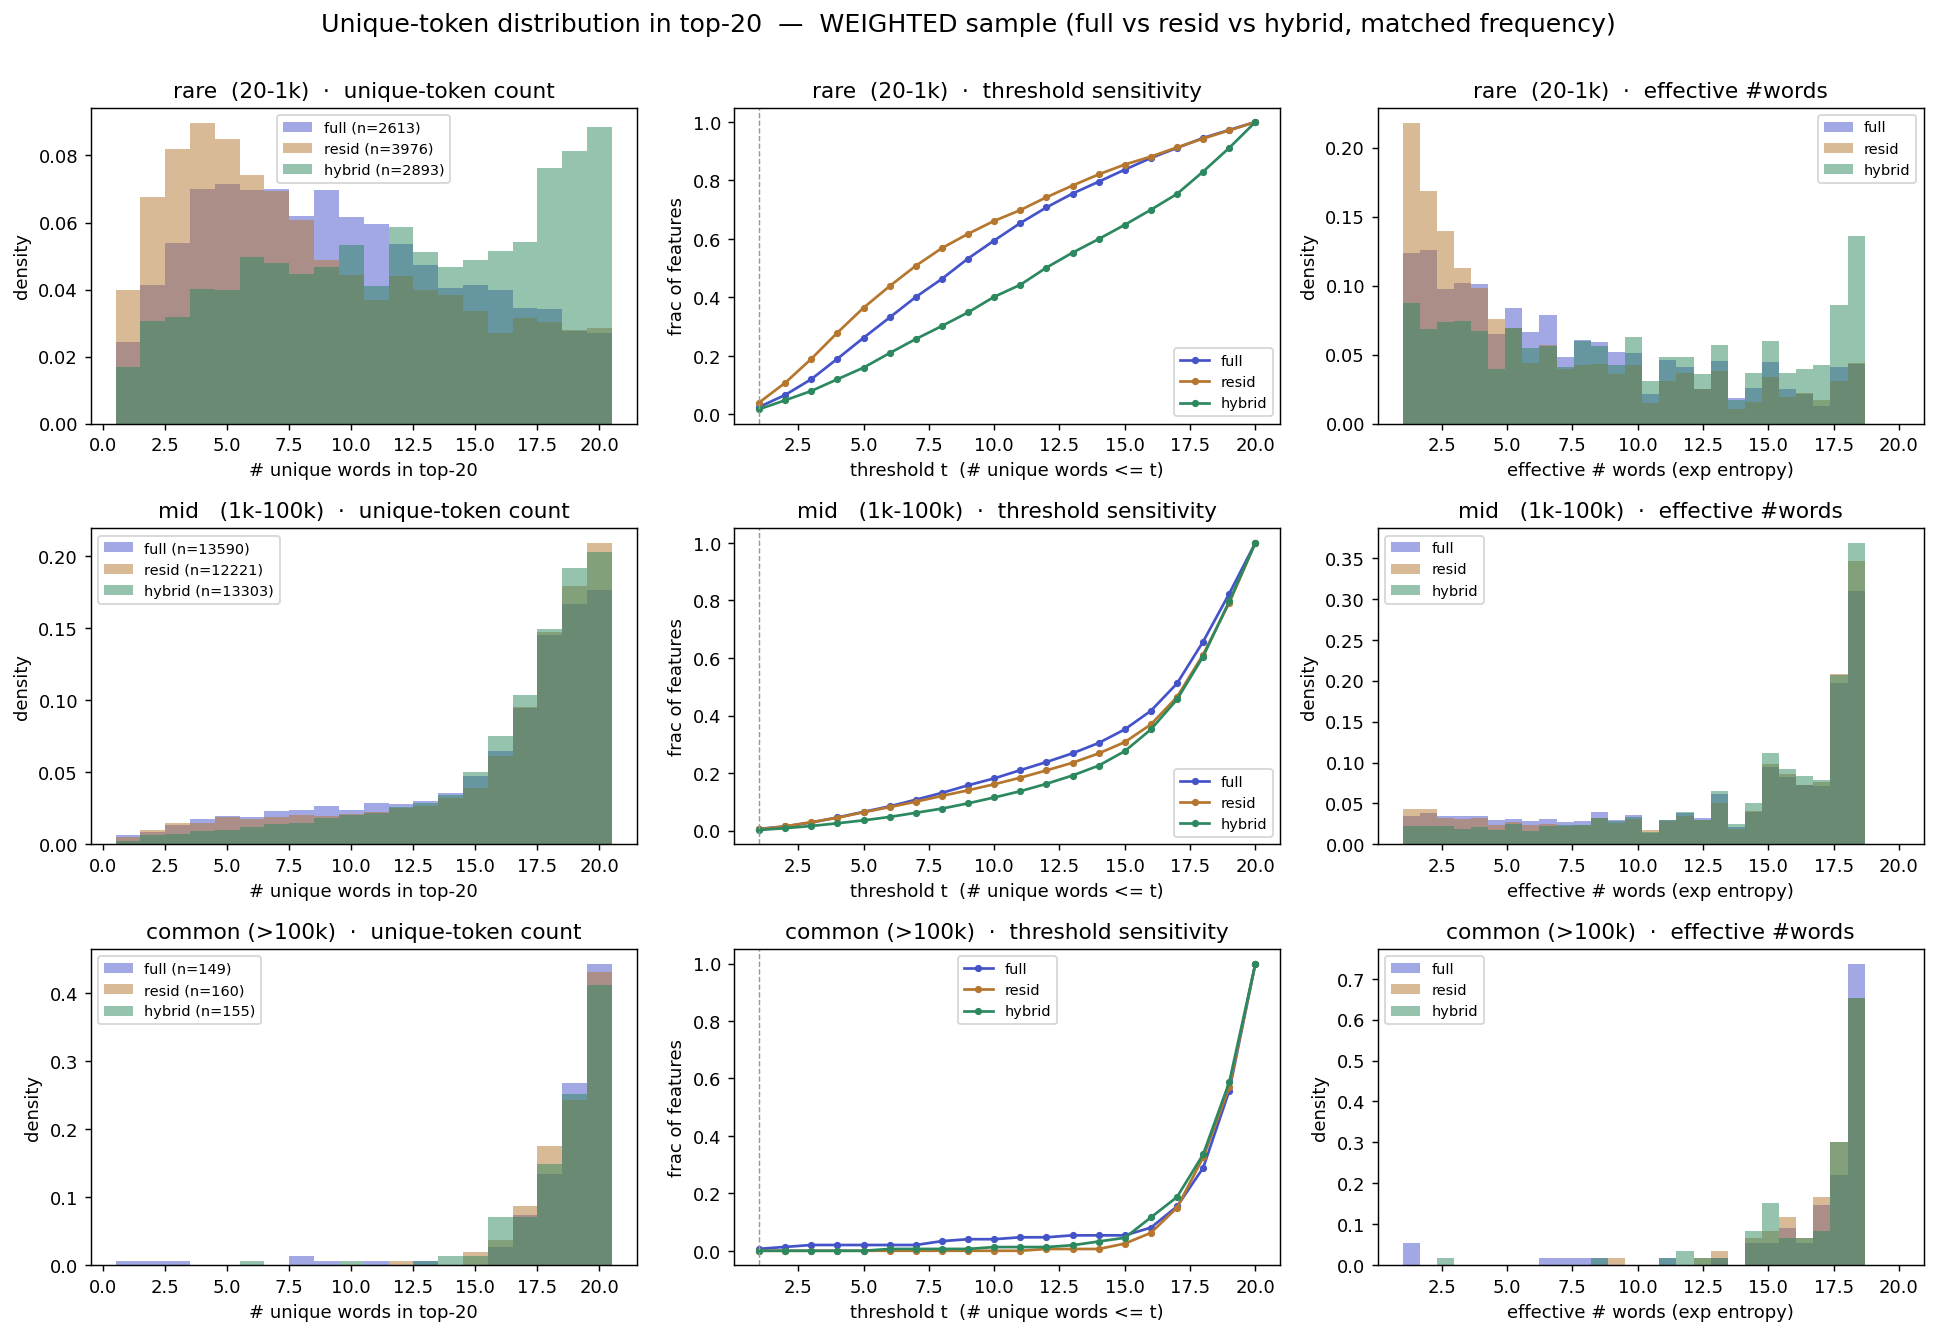
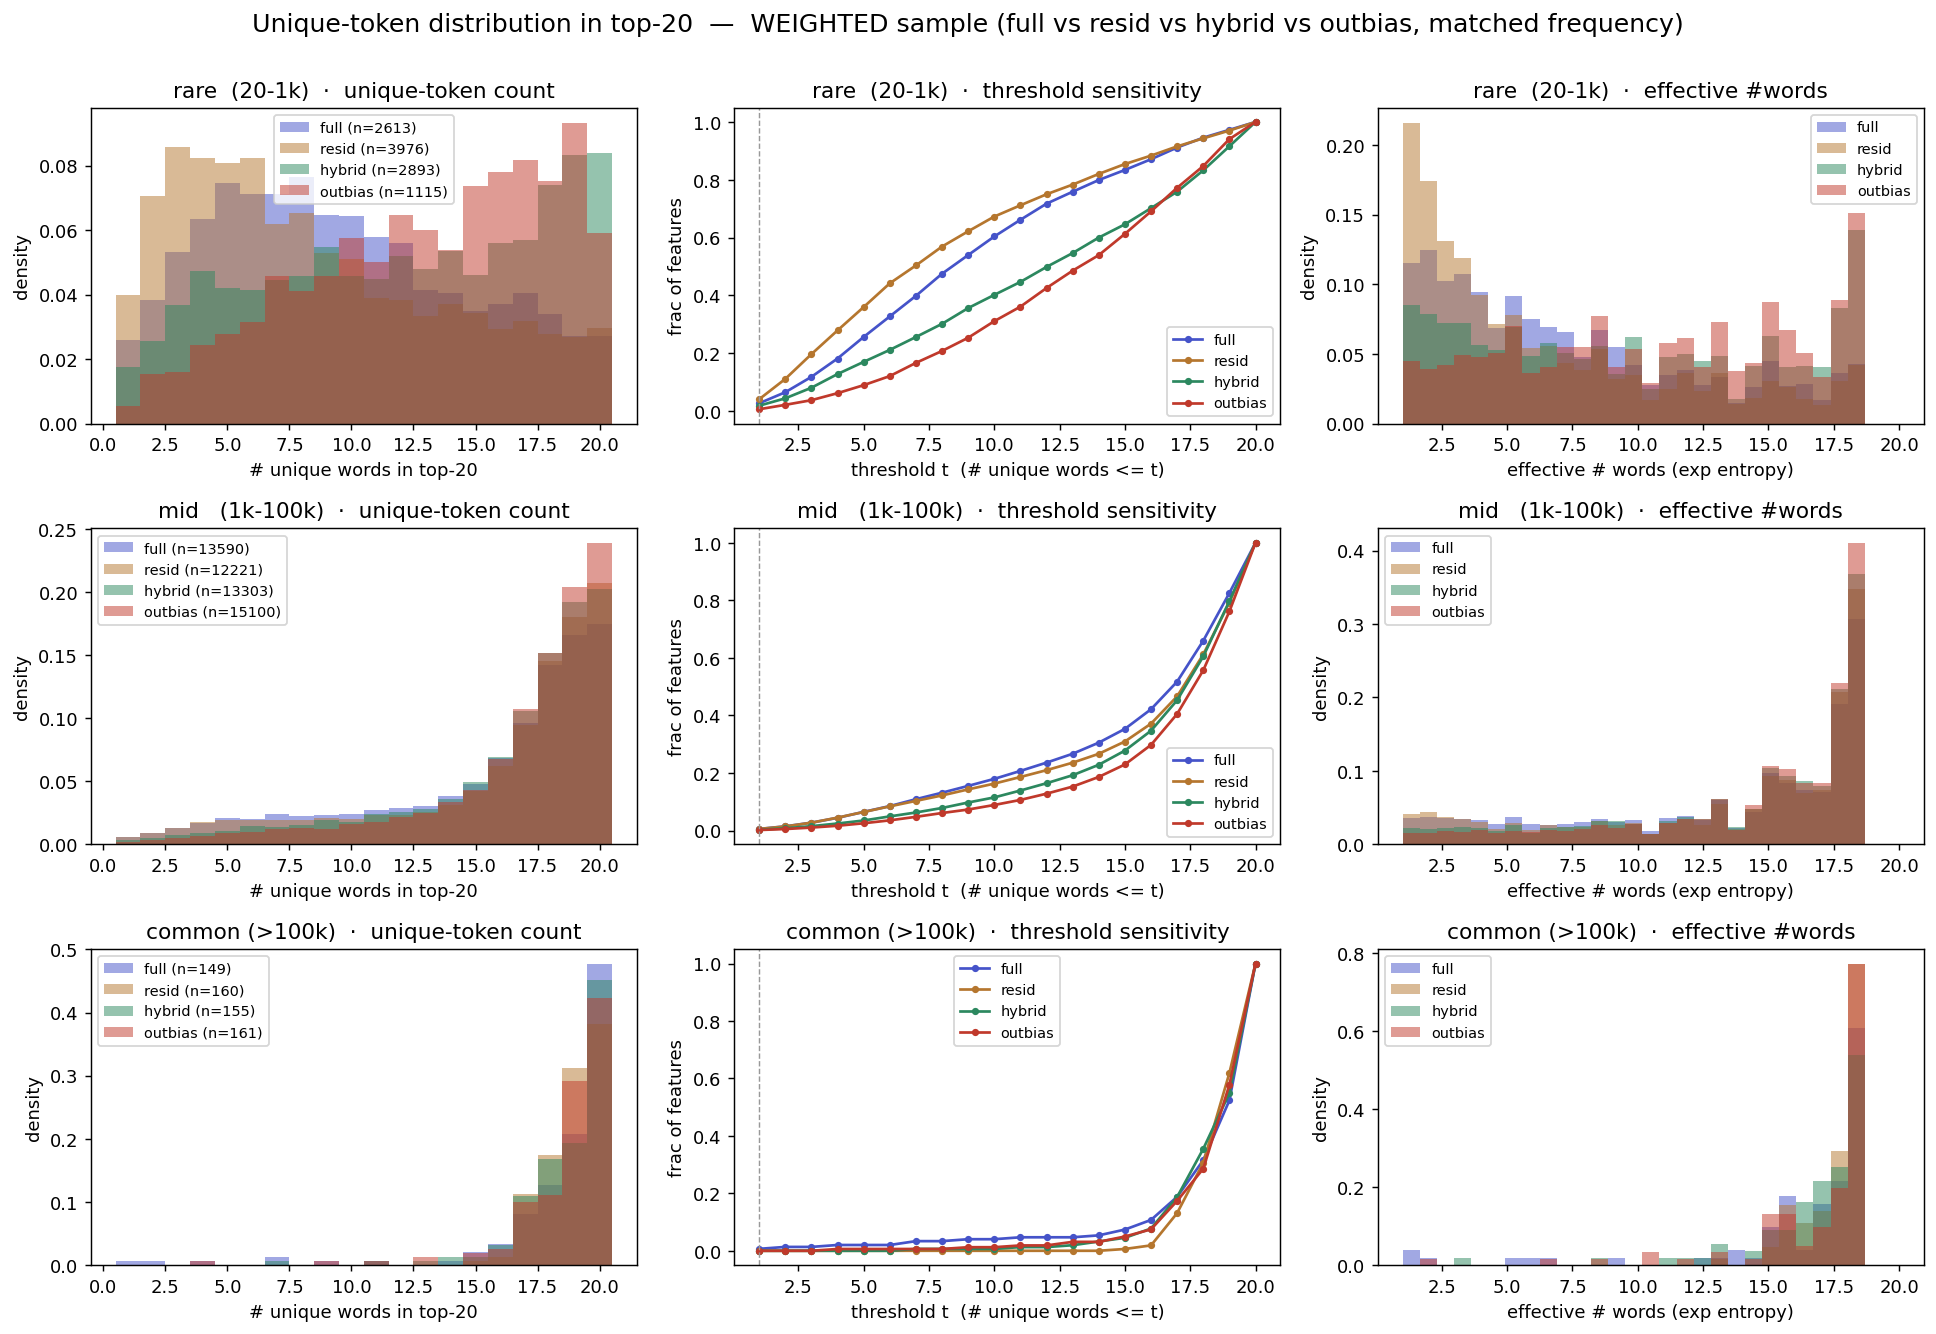
evals things uhh messy graophs

diff --git a/SAE_linearmaps/triviality_writeup.html b/SAE_linearmaps/triviality_writeup.html
@@ -496,7 +496,24 @@
       <p><strong>(1)</strong> The single-token detection didn&rsquo;t <em>vanish</em> — it moved into the dense map. The <em>sparse dictionary</em> is cleaner; the model isn&rsquo;t representing fewer tokens. <strong>(2)</strong> It&rsquo;s <strong>word &rarr; topic, not word &rarr; abstraction</strong> — hybrid features are broader <em>topical</em> concepts (health insurance, climate change), not abstract features like &ldquo;sycophancy.&rdquo; <strong>(3)</strong> Purely-lexical tokens can get <em>absorbed</em> rather than broadened: hybrid has no clean &ldquo;district&rdquo; feature at all — the map ate the bare token signal, and the best match specialized to the legal sense. <strong>(4)</strong> The FVU gain is modest and buys ~5M dense params.</p>
     </div>
 
-    <p><strong>Bottom line:</strong> the frozen residual was a null, but jointly training the map (hybrid) is a genuine two-for-one — better reconstruction <em>and</em> a less-trivial dictionary at matched sparsity. The active ingredient is the <em>coordination</em> between map and SAE, not the mere subtraction of a per-token vector.</p>
+    <h3 style="margin-top:1.6rem">What actually de-trivializes the dictionary? (an ablation)</h3>
+    <p>Why are the hybrid&rsquo;s features cleaner — is it because the map removed the token from what the SAE <em>sees</em> (its encoder input is the residual), or from what it has to <em>reconstruct</em> (its target is the residual)? To separate those, I trained a third variant, <strong>&ldquo;outbias&rdquo;</strong>: the encoder sees the <em>full</em> activation <span class="kbd">h</span> (token and all), and the jointly-trained map is added only at the <em>output</em>, so the SAE still reconstructs the residual <span class="kbd">h&minus;P</span>. Same encoder input as full; same reconstruction target as hybrid.</p>
+    <div class="tbl-wrap">
+      <table>
+        <thead><tr><th>SAE</th><th>encoder sees</th><th>target</th><th>single-word % (peak)</th><th>eff #words (wtd)</th></tr></thead>
+        <tbody>
+          <tr><td>full</td><td class="num-mono">h</td><td class="num-mono">h</td><td class="num-mono">15.7%</td><td class="num-mono">13.2</td></tr>
+          <tr><td>hybrid</td><td class="num-mono">h&minus;P</td><td class="num-mono">h&minus;P</td><td class="num-mono">9.2%</td><td class="num-mono">14.5</td></tr>
+          <tr><td><strong>outbias</strong></td><td class="num-mono">h</td><td class="num-mono">h&minus;P</td><td class="num-mono hi">7.7%</td><td class="num-mono hi">15.6</td></tr>
+        </tbody>
+      </table>
+    </div>
+    <div class="call finding">
+      <span class="tag">Finding — it&rsquo;s the target, not the encoder</span>
+      <p><strong>Outbias — whose encoder sees the token — is the <em>least</em> trivial of the three</strong>, not the most. So the cleaner dictionary is <strong>not</strong> caused by hiding the token from the encoder. The clean comparison is <em>full vs outbias</em>: identical encoder input (<span class="kbd">h</span>), different target — and outbias is far cleaner. So it&rsquo;s the <strong>reconstruction target</strong> that does the work: making the SAE reconstruct the residual <span class="kbd">h&minus;P</span> instead of the full <span class="kbd">h</span> pushes features toward context and away from single tokens, <em>regardless of what the encoder sees</em>. The encoder input is secondary — if anything, seeing the full <span class="kbd">h</span> gives slightly broader features. On a clean eval, outbias reconstructs about as well as the hybrid (FVU 0.144 vs 0.143 at matched 20M training), and both clearly beat full (0.149) — so it&rsquo;s a cleaner dictionary at essentially the same reconstruction, not a free win on both axes.</p>
+    </div>
+
+    <p><strong>Bottom line:</strong> the frozen residual was a null, but jointly training the map (hybrid) is a genuine two-for-one — better reconstruction <em>and</em> a less-trivial dictionary at matched sparsity. The active ingredient is the <em>coordination</em> between map and SAE, not the mere subtraction of a per-token vector — and the ablation pins down <em>why</em> the dictionary gets cleaner: it&rsquo;s that the SAE reconstructs the residual rather than the full activation, not anything about what its encoder sees.</p>
   </section>
 
   <section class="col">

diff --git a/SAE_linearmaps/eval_trivial.py b/SAE_linearmaps/eval_trivial.py
@@ -20,6 +20,7 @@ CACHE_DIR   = "/workspace/sae_cache_layer13"
 FULL_PATH   = f"{CACHE_DIR}/sae_full_final.pt"
 RESID_PATH  = f"{CACHE_DIR}/sae_resid_final.pt"
 HYBRID_PATH = f"{CACHE_DIR}/sae_hybrid_final.pt"
+OUTBIAS_PATH = f"{CACHE_DIR}/sae_outbias_k64_final.pt"   # ablation: encoder sees full h, map at output
 P_PATH      = f"{CACHE_DIR}/P.pt"
 P_HYBRID_PATH = f"{CACHE_DIR}/P_hybrid.pt"
 N_TOKENS = 4_000_000
@@ -61,6 +62,13 @@ if HAVE_HYBRID:
     sae_hybrid, scale_hybrid = load_sae(HYBRID_PATH)
     print("hybrid artifacts found -> including HYBRID in the eval")
 
+# outbias ablation: encoder saw the FULL h (like full mode), map added only at OUTPUT. For
+# triviality the map is irrelevant (features are detected from h), so its stream uses x = hh.
+HAVE_OUTBIAS = os.path.exists(OUTBIAS_PATH)
+if HAVE_OUTBIAS:
+    sae_outbias, scale_outbias = load_sae(OUTBIAS_PATH)
+    print("outbias artifacts found -> including OUTBIAS in the eval")
+
 # --- OLD: materialized the whole (N, 16384) matrix, OOMs past ~100k tokens ---
 # def feature_acts(sae, scale, mode, bs=8192):
 #     outs = []
@@ -98,9 +106,9 @@ def stream_topk(sae, scale, mode, n_tokens, K=TOPK, bs=bs):
             for start in range(0, hc.shape[0], bs):
                 hh = hc[start:start+bs].float().to(device)
                 tt = tc[start:start+bs].to(device)
-                if   mode == "resid":  x = hh - P[tt]          # unchanged, still uses frozen P.pt
-                elif mode == "hybrid": x = hh - P_hybrid[tt]   # NEW: uses the trained map's table
-                else:                  x = hh                  # full, unchanged
+                if   mode == "resid":  x = hh - P[tt]          # encoder sees the residual (frozen map)
+                elif mode == "hybrid": x = hh - P_hybrid[tt]   # encoder sees the residual (trained map)
+                else:                  x = hh                  # full AND outbias: encoder sees the full h
 
                 a = sae.encode(x / scale)                     # (b, F)
                 fired = a > 0
@@ -127,6 +135,8 @@ peak_full,  uni_full,  wt_full,  freq_full  = stream_topk(sae_full,  scale_full,
 peak_resid, uni_resid, wt_resid, freq_resid = stream_topk(sae_resid, scale_resid, "resid", N_TOKENS)
 if HAVE_HYBRID:
     peak_hyb, uni_hyb, wt_hyb, freq_hyb = stream_topk(sae_hybrid, scale_hybrid, "hybrid", N_TOKENS)
+if HAVE_OUTBIAS:
+    peak_ob, uni_ob, wt_ob, freq_ob = stream_topk(sae_outbias, scale_outbias, "outbias", N_TOKENS)
 
 # --- OLD: took the full (N, F) matrix and did its own topk ---
 # def triviality(a, tok):
@@ -178,6 +188,8 @@ mf_full,  nd_full,  al_full  = report("FULL",  peak_full,  uni_full,  wt_full,  
 mf_resid, nd_resid, al_resid = report("RESID", peak_resid, uni_resid, wt_resid, freq_resid)
 if HAVE_HYBRID:
     mf_hyb, nd_hyb, al_hyb = report("HYBRID", peak_hyb, uni_hyb, wt_hyb, freq_hyb)
+if HAVE_OUTBIAS:
+    mf_ob, nd_ob, al_ob = report("OUTBIAS", peak_ob, uni_ob, wt_ob, freq_ob)
 
 # side-by-side shift in the distribution (over each SAE's own alive features)
 print("\n=== shift (resid - full) ===")
@@ -227,12 +239,23 @@ if HAVE_HYBRID:
         rng = f"{int(lo)}-{hi_s}"
         print(f"{rng:>14} | {hb[0]:>6} {hb[1]:>5.3f} {hb[2]:>5.2f} {hb[3]:>5.3f}")
 
+if HAVE_OUTBIAS:
+    ob_bins = freq_binned(mf_ob, nd_ob, freq_ob, al_ob, edges)
+    print("\n=== OUTBIAS triviality by firing-frequency bin ===")
+    print(f"{'freq range':>14} | {'n':>6} {'mf':>5} {'ndist':>5} {'1word':>5}")
+    for (lo, hi), ob in zip(zip(edges[:-1], edges[1:]), ob_bins):
+        hi_s = "inf" if hi == float("inf") else str(int(hi))
+        rng = f"{int(lo)}-{hi_s}"
+        print(f"{rng:>14} | {ob[0]:>6} {ob[1]:>5.3f} {ob[2]:>5.2f} {ob[3]:>5.3f}")
+
 # --- save per-feature stats so dashboard.py can pick features without re-running the 4M eval ---
 # "nd" = WEIGHTED (activation-weighted) distinct-word count [the principled metric]; "nd_peak" = old peak metric
 t.save({"freq": freq_full.cpu(),  "nd": nd_full.cpu(),  "nd_peak": triviality(peak_full, freq_full)[1].cpu(),  "alive": al_full.cpu()},  f"{CACHE_DIR}/stats_full.pt")
 t.save({"freq": freq_resid.cpu(), "nd": nd_resid.cpu(), "nd_peak": triviality(peak_resid, freq_resid)[1].cpu(), "alive": al_resid.cpu()}, f"{CACHE_DIR}/stats_resid.pt")
 if HAVE_HYBRID:
     t.save({"freq": freq_hyb.cpu(), "nd": nd_hyb.cpu(), "nd_peak": triviality(peak_hyb, freq_hyb)[1].cpu(), "alive": al_hyb.cpu()}, f"{CACHE_DIR}/stats_hybrid.pt")
+if HAVE_OUTBIAS:
+    t.save({"freq": freq_ob.cpu(), "nd": nd_ob.cpu(), "nd_peak": triviality(peak_ob, freq_ob)[1].cpu(), "alive": al_ob.cpu()}, f"{CACHE_DIR}/stats_outbias.pt")
 print(f"\nsaved per-feature stats to {CACHE_DIR}/stats_*.pt")
 
 # --- distribution plot: is "single-word fraction" just a thresholding artifact? -------------
@@ -250,7 +273,7 @@ matplotlib.use("Agg")                       # headless box -> render to file, no
 import matplotlib.pyplot as plt
 import numpy as np
 
-C_FULL, C_RESID, C_HYBRID = "#4553c9", "#b5762e", "#2c885f"
+C_FULL, C_RESID, C_HYBRID, C_OUTBIAS = "#4553c9", "#b5762e", "#2c885f", "#c0392b"
 PLOT_BINS = [((TOPK, 1000),        "rare  (20-1k)"),
              ((1000, 100000),      "mid   (1k-100k)"),
              ((100000, float("inf")), "common (>100k)")]
@@ -308,6 +331,9 @@ wt_series   = [("full", C_FULL, wt_full,   al_full, freq_full), ("resid", C_RESI
 if HAVE_HYBRID:
     peak_series.append(("hybrid", C_HYBRID, peak_hyb, al_hyb, freq_hyb))
     wt_series.append(  ("hybrid", C_HYBRID, wt_hyb,   al_hyb, freq_hyb))
+if HAVE_OUTBIAS:
+    peak_series.append(("outbias", C_OUTBIAS, peak_ob, al_ob, freq_ob))
+    wt_series.append(  ("outbias", C_OUTBIAS, wt_ob,   al_ob, freq_ob))
 plot_unique_token_dists("PEAK",     peak_series, "peak")
 plot_unique_token_dists("WEIGHTED", wt_series,   "weighted")
 

diff --git a/SAE_linearmaps/eval_fvu.py b/SAE_linearmaps/eval_fvu.py
@@ -13,6 +13,10 @@ P = t.load(f"{CACHE_DIR}/P.pt", map_location=device)   # (V, 2304)
 P_HYBRID_PATH = f"{CACHE_DIR}/P_hybrid.pt"
 HYBRID_PATH   = f"{CACHE_DIR}/sae_hybrid_final.pt"
 P_hybrid = t.load(P_HYBRID_PATH, map_location=device) if os.path.exists(P_HYBRID_PATH) else None
+# outbias ablation: encoder sees full h, jointly-trained map added at the OUTPUT (k-tagged files)
+P_OUTBIAS_PATH = f"{CACHE_DIR}/P_outbias_k64.pt"
+OUTBIAS_PATH   = f"{CACHE_DIR}/sae_outbias_k64_final.pt"
+P_outbias = t.load(P_OUTBIAS_PATH, map_location=device) if os.path.exists(P_OUTBIAS_PATH) else None
 
 def load_sae(path):
     ckpt = t.load(path, weights_only=False)
@@ -29,6 +33,11 @@ HAVE_HYBRID = os.path.exists(HYBRID_PATH) and P_hybrid is not None
 if HAVE_HYBRID:
     sae_hybrid, scale_hybrid = load_sae(HYBRID_PATH)
     print("hybrid artifacts found -> including HYBRID FVU")
+
+HAVE_OUTBIAS = os.path.exists(OUTBIAS_PATH) and P_outbias is not None
+if HAVE_OUTBIAS:
+    sae_outbias, scale_outbias = load_sae(OUTBIAS_PATH)
+    print("outbias artifacts found -> including OUTBIAS FVU")
 
 def recon_full(hh):
     x = hh / scale_full
@@ -48,9 +57,13 @@ def recon_hybrid(hh, tt):
     a = sae_hybrid.encode((hh - p) / scale_hybrid)
     return p + sae_hybrid.decode(a) * scale_hybrid  # composite ĥ (map + hybrid SAE)
 
+def recon_outbias(hh, tt):
+    a = sae_outbias.encode(hh / scale_outbias)      # encoder sees the FULL h (token NOT removed)
+    return P_outbias[tt] + sae_outbias.decode(a) * scale_outbias   # map added at the OUTPUT
+
 # float64 accumulators: summing ~5e9 float32 squares drifts; .double() first avoids it
 sse_full = sse_comp = sse_r = 0.0
-sse_hybrid = 0.0
+sse_hybrid = sse_outbias = 0.0
 h_sum = h_sumsq = 0.0
 r_sum = r_sumsq = 0.0
 n_elem = 0
@@ -73,6 +86,8 @@ with t.no_grad():
             sse_r    += ((r  - r_hat     )**2).double().sum().item()
             if HAVE_HYBRID:
                 sse_hybrid += ((hh - recon_hybrid(hh, tt))**2).double().sum().item()
+            if HAVE_OUTBIAS:
+                sse_outbias += ((hh - recon_outbias(hh, tt))**2).double().sum().item()
 
             h_sum += hh.double().sum().item();  h_sumsq += (hh**2).double().sum().item()
             r_sum += r.double().sum().item();   r_sumsq += (r**2).double().sum().item()
@@ -92,3 +107,5 @@ print(f"FVU on r  — resid SAE alone: {sse_r   /(n_elem*var_r):.4f}   (expect ~
 print(f"identity check: {sse_r/(n_elem*var_r) * var_r/var_h:.4f} == composite FVU above")
 if HAVE_HYBRID:
     print(f"FVU on h  — hybrid (joint)  : {sse_hybrid/(n_elem*var_h):.4f}   (beat full's {sse_full/(n_elem*var_h):.4f}?)")
+if HAVE_OUTBIAS:
+    print(f"FVU on h  — outbias         : {sse_outbias/(n_elem*var_h):.4f}   (encoder sees h, map at output; 20M-trained)")